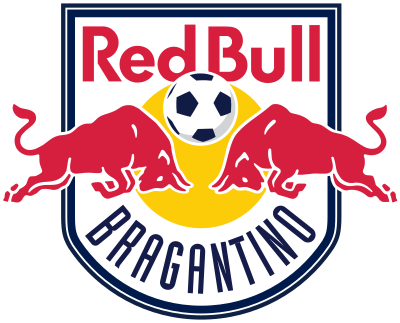
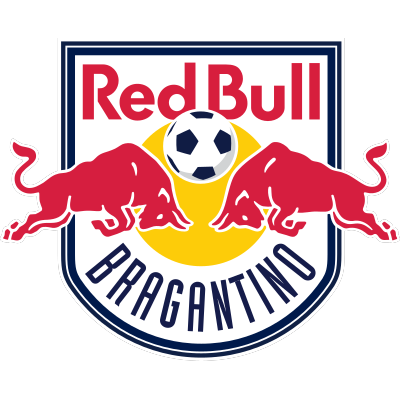
Home: cards do Bragantino do mesmo tamanho que os do Goiás
Dois achados reais fazendo os cards ficarem maiores no Bragantino:

- crest_badge.png tinha canvas 400x323 (retangular), diferente do
  goias_crest.png (1024x1024, círculo cheio) — como ClubBadge sempre usa
  BoxFit.contain numa caixa quadrada, o escudo do Bragantino ficava
  desproporcional (letterboxed) em vez de preencher a caixa do mesmo
  jeito que o do Goiás. Padding pro canvas virar quadrado resolve.

- a frase do card da Arena ("...entre os torcedores do {club}.") é bem
  mais longa que a do Goiás ("...entre os Esmeraldinos.") e não tinha
  proteção de maxLines — pro Bragantino quebrava em 2 linhas, deixando o
  card mais alto. Adicionei uma variante curta usando a torcida oficial
  ("Massa Bruta") e maxLines:2/overflow como proteção, mesmo padrão que
  o StoreEntryCard já usava. Mesma proteção adicionada no nome da
  competição do card do próximo jogo, por precaução.

diff --git a/lib/features/arena/presentation/widgets/arena_spotlight_card.dart b/lib/features/arena/presentation/widgets/arena_spotlight_card.dart
@@ -114,6 +114,13 @@ class ArenaSpotlightCard extends StatelessWidget {
                         sl<ClubConfig>().identity.code,
                         sl<ClubConfig>().identity.shortName,
                       ),
+                      // Mesma proteção do StoreEntryCard: sem isso, um
+                      // clube cujo texto (nome mais longo, ou a variante
+                      // genérica "other" do ICU) quebra em 2 linhas onde o
+                      // Goiás fica em 1 deixa o card visivelmente maior
+                      // que o de outro clube — achado real 2026-09-10.
+                      maxLines: 2,
+                      overflow: TextOverflow.ellipsis,
                       style: TextStyle(
                         fontSize: 12.5,
                         fontWeight: FontWeight.w600,

diff --git a/lib/l10n/app_localizations.dart b/lib/l10n/app_localizations.dart
@@ -1447,7 +1447,7 @@ abstract class AppLocalizations {
   /// No description provided for @arenaSpotlightSubtitle.
   ///
   /// In pt, this message translates to:
-  /// **'{clubCode, select, goias{Jogue, participe e dispute seu lugar entre os Esmeraldinos.} other{Jogue, participe e dispute seu lugar entre os torcedores do {club}.}}'**
+  /// **'{clubCode, select, goias{Jogue, participe e dispute seu lugar entre os Esmeraldinos.} bragantino{Jogue, participe e dispute seu lugar entre a Massa Bruta.} other{Jogue, participe e dispute seu lugar entre os torcedores do {club}.}}'**
   String arenaSpotlightSubtitle(String clubCode, String club);
 
   /// No description provided for @arenaSpotlightCta.

diff --git a/lib/l10n/app_localizations_en.dart b/lib/l10n/app_localizations_en.dart
@@ -770,6 +770,8 @@ class AppLocalizationsEn extends AppLocalizations {
   String arenaSpotlightSubtitle(String clubCode, String club) {
     String _temp0 = intl.Intl.selectLogic(clubCode, {
       'goias': 'Play, take part, and earn your place among the Esmeraldinos.',
+      'bragantino':
+          'Play, take part, and earn your place among the Massa Bruta.',
       'other': 'Play, take part, and earn your place among $club fans.',
     });
     return '$_temp0';

diff --git a/lib/l10n/app_localizations_es.dart b/lib/l10n/app_localizations_es.dart
@@ -771,6 +771,7 @@ class AppLocalizationsEs extends AppLocalizations {
   String arenaSpotlightSubtitle(String clubCode, String club) {
     String _temp0 = intl.Intl.selectLogic(clubCode, {
       'goias': 'Juega, participa y gana tu lugar entre los Esmeraldinos.',
+      'bragantino': 'Juega, participa y gana tu lugar entre la Massa Bruta.',
       'other': 'Juega, participa y gana tu lugar entre los hinchas del $club.',
     });
     return '$_temp0';

diff --git a/lib/l10n/app_localizations_pt.dart b/lib/l10n/app_localizations_pt.dart
@@ -777,6 +777,7 @@ class AppLocalizationsPt extends AppLocalizations {
   String arenaSpotlightSubtitle(String clubCode, String club) {
     String _temp0 = intl.Intl.selectLogic(clubCode, {
       'goias': 'Jogue, participe e dispute seu lugar entre os Esmeraldinos.',
+      'bragantino': 'Jogue, participe e dispute seu lugar entre a Massa Bruta.',
       'other':
           'Jogue, participe e dispute seu lugar entre os torcedores do $club.',
     });

diff --git a/lib/features/home/presentation/widgets/next_match_hero.dart b/lib/features/home/presentation/widgets/next_match_hero.dart
@@ -73,6 +73,8 @@ class NextMatchHero extends StatelessWidget {
                 const SizedBox(height: AppSpacing.sm),
                 Text(
                   _shortCompetitionLabel(match.competition),
+                  maxLines: 1,
+                  overflow: TextOverflow.ellipsis,
                   style: const TextStyle(
                     color: Colors.white,
                     fontSize: 15,
